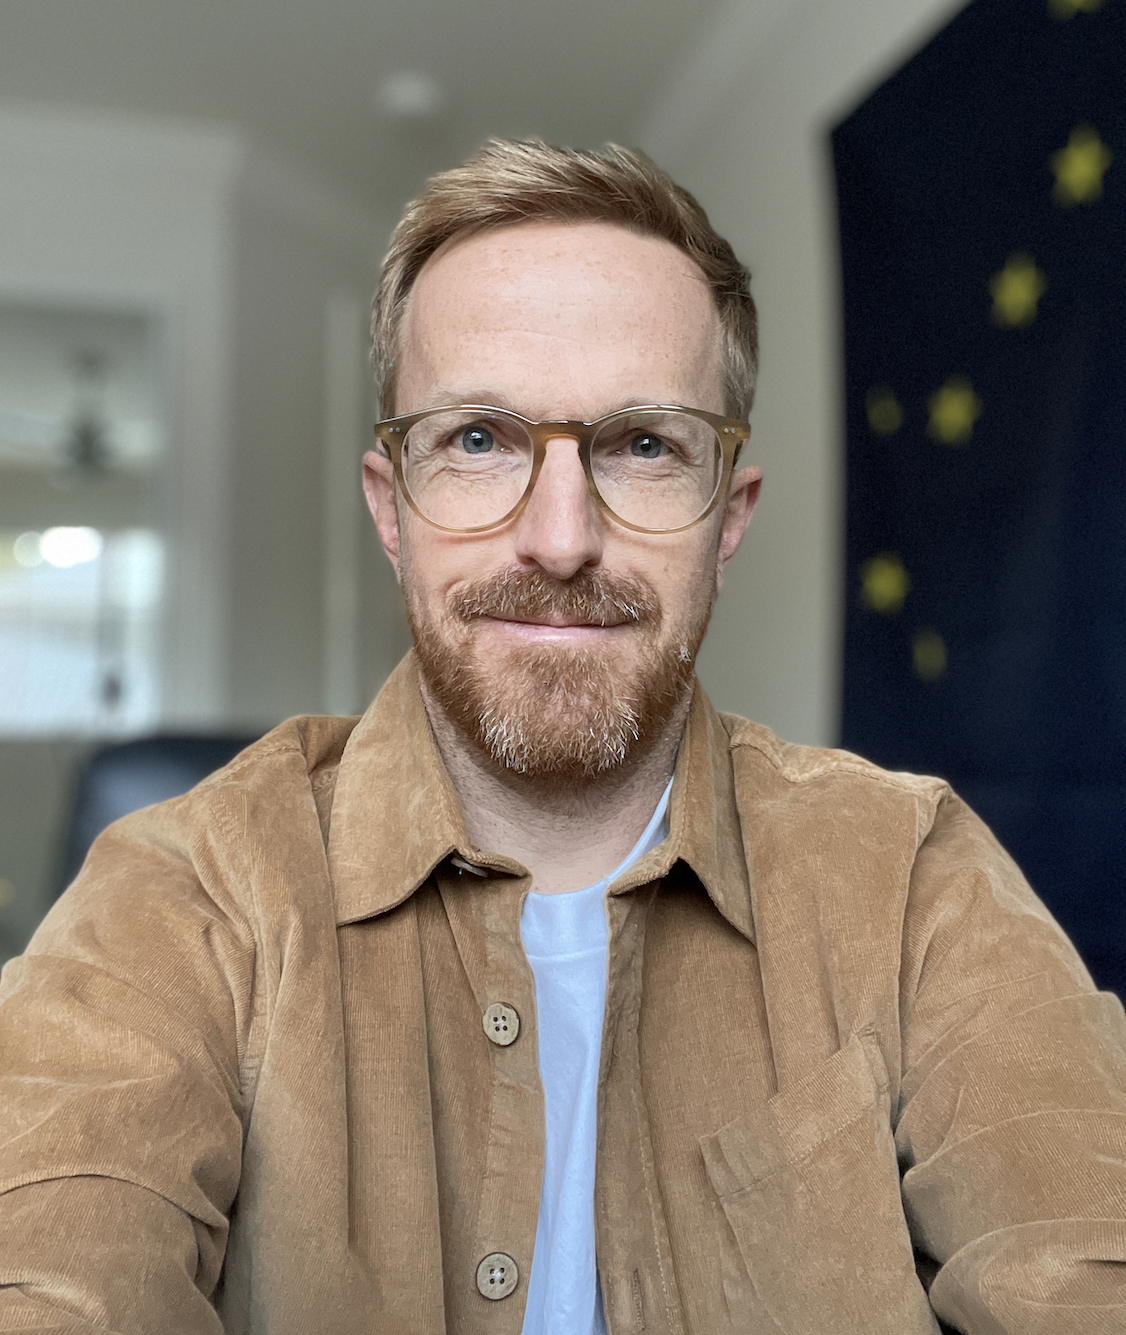
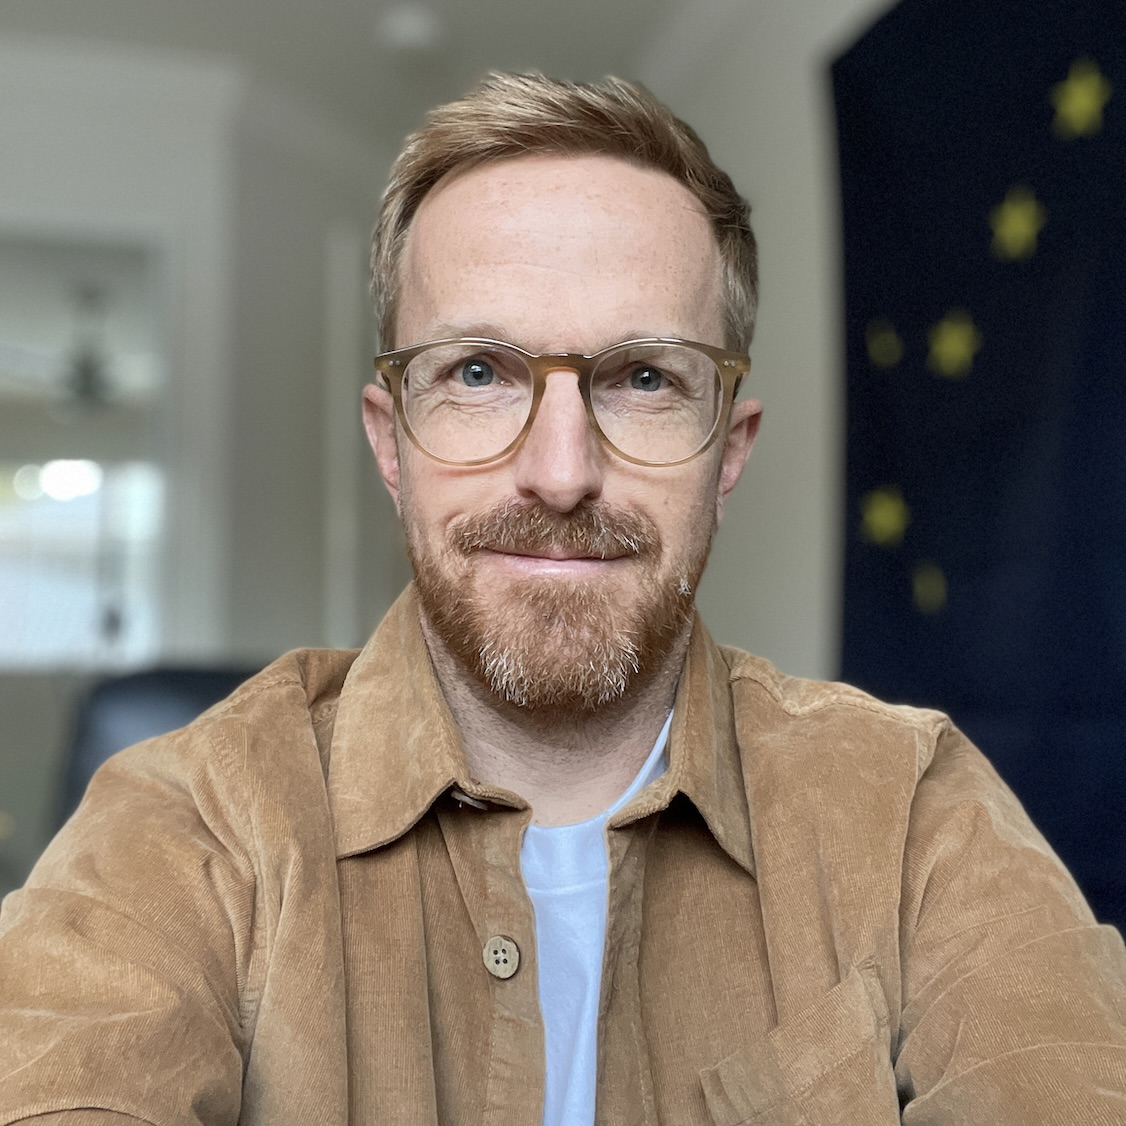
update image to square

diff --git a/main.css b/main.css
@@ -223,8 +223,4 @@ p > span {
       text-align: start;
     }
   }
-
-  .profile-photo {
-    width: 80%;
-  }
 }
